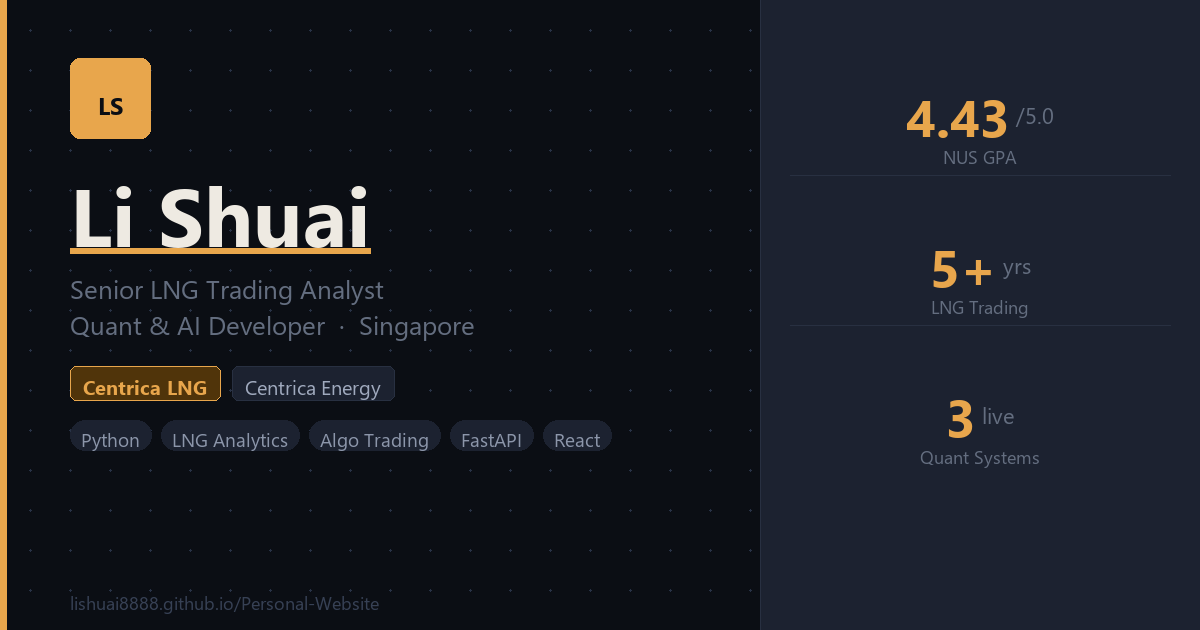
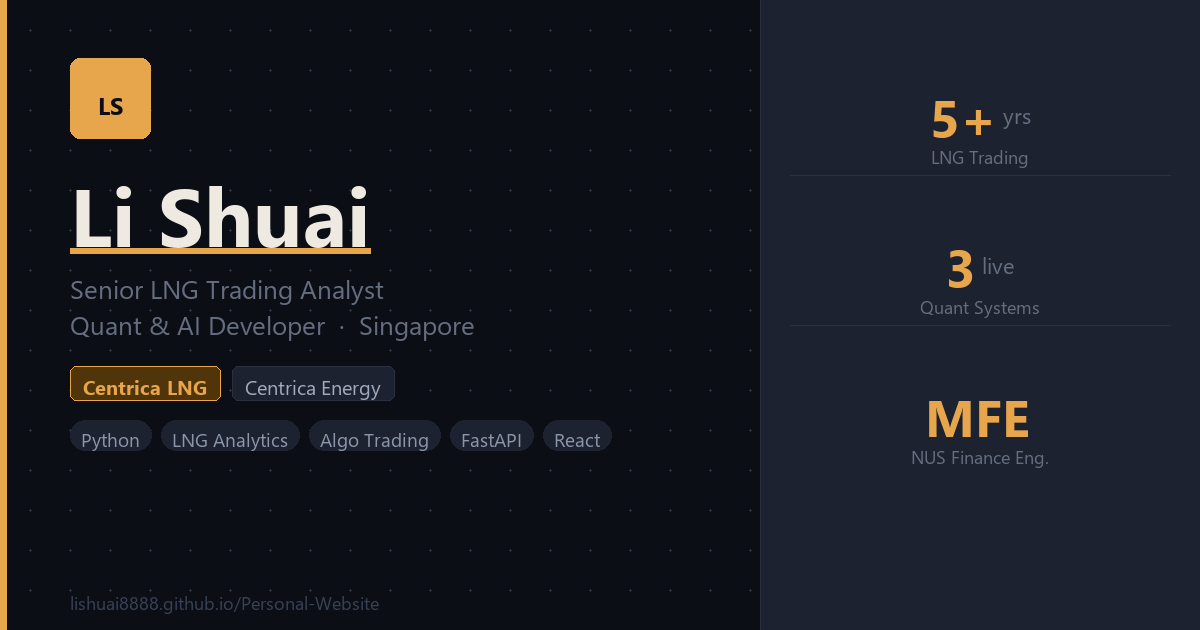
Remove GPA from webpage and OG image
- KPI: replace 4.43 GPA stat with Hons (Honors with Distinction · Dean's List)
- Education: remove CAP 4.43/5.0 number, keep Honors with Distinction + Dean's List
- OG image: replace GPA stat with MFE credential

Changed region(s): [[0.74, 0.1508, 0.8633, 0.2714], [0.7708, 0.6333, 0.8633, 0.754], [0.7708, 0.3921, 0.8633, 0.5127]]

diff --git a/index.html b/index.html
@@ -772,10 +772,10 @@
             </div>
           </div>
           <div class="kpi">
-            <div class="kpi-val">4.43</div>
+            <div class="kpi-val">Hons</div>
             <div class="kpi-desc">
-              <span class="lang-en">NUS GPA / 5.0 — Honors with Distinction</span>
-              <span class="lang-cn">新国大 GPA / 5.0 — 优等荣誉</span>
+              <span class="lang-en">NUS — Honors with Distinction · Dean's List</span>
+              <span class="lang-cn">新国大 — 优等荣誉 · 院长名单</span>
             </div>
           </div>
         </div>
@@ -1019,7 +1019,7 @@
             <div class="edu-school"><span class="lang-en">National University of Singapore</span><span class="lang-cn">新加坡国立大学</span></div>
             <div class="edu-deg"><span class="lang-en">BBA — FINANCE & SUPPLY CHAIN (DOUBLE SPEC.)</span><span class="lang-cn">工商管理学士 — 金融与供应链管理（双专业）</span></div>
             <ul class="edu-pts">
-              <li><span class="lang-en">CAP 4.43 / 5.0 — Honors with Distinction · Dean's Lister (Top 5%)</span><span class="lang-cn">CAP 4.43 / 5.0 — 优等荣誉 · 院长名单（前 5%）</span></li>
+              <li><span class="lang-en">Honors with Distinction · Dean's List (Top 5%)</span><span class="lang-cn">优等荣誉 · 院长名单（前 5%）</span></li>
               <li><span class="lang-en">NUS CFA Scholarship · MOE SM1 Programme Scholarship</span><span class="lang-cn">新国大 CFA 奖学金 · 教育部 SM1 奖学金</span></li>
               <li><span class="lang-en">President, NUS Business Analytics Consulting Society (BACS)</span><span class="lang-cn">新国大商业分析咨询社（BACS）主席</span></li>
             </ul>
